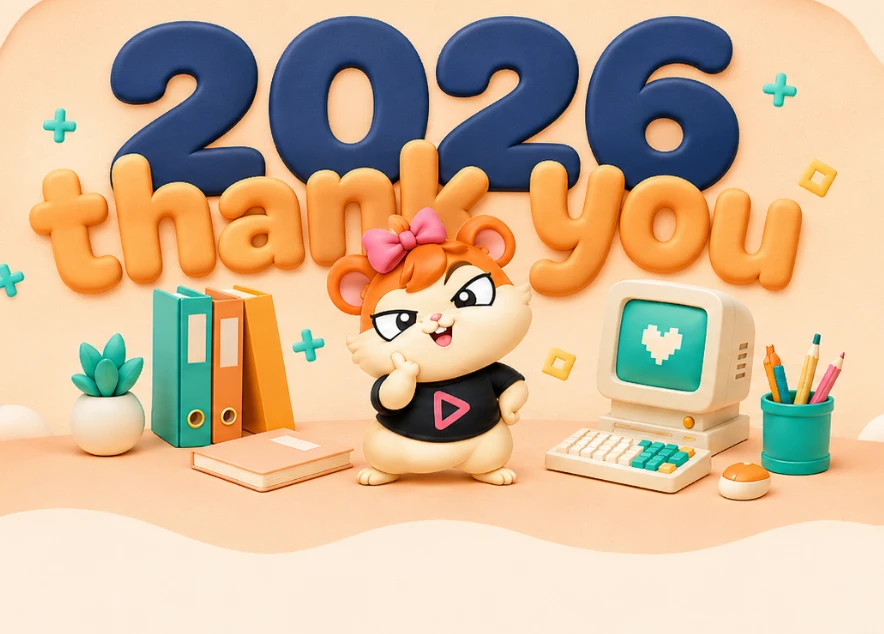
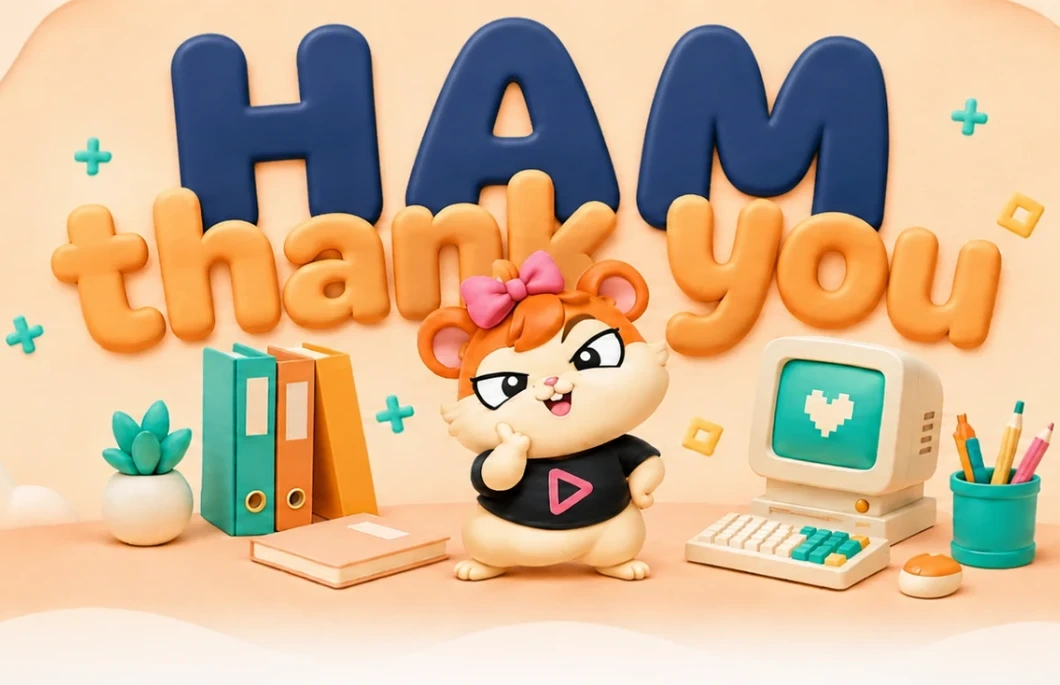
Swap the Thank You hero to the HAM artwork
Replaces "2026 thank you" with the new "HAM thank you" scene, which
matches the HamsterHub name and is not pinned to a year.

The new art came as a single wide file (2000x685). The page serves two
crops through <picture>, so swapping only the wide one would have left
phones on the old "2026" art — a different wordmark depending on screen
size. Cropped the mobile version from the same source instead: full
height, trimmed to 1060x685 so the whole wordmark and the full desk
scene survive, from the plant through to the pencil cup.

The intrinsic width/height on both the <source> and the <img> now match
the real files. Stale values here cause layout shift, and were behind the
stretched-banner bug earlier in this project. The alt text said "2026
thank you", which would have described a wordmark that no longer exists.

Verified in Chromium: both 1440 and 390 load their own file and both read
"HAM", natural dimensions match the markup, no horizontal overflow, and
the hero still fades into the section below with no seam. Gallery
untouched and re-checked — drag 200px moves 200px, one blade and six
sparks, nothing stranded.

Claude-Session: https://claude.ai/code/session_013kTtF1icznq9uztL5hnTJk

diff --git a/thankyou.html b/thankyou.html
@@ -24,9 +24,9 @@
       <picture>
         <!-- Same scene, two crops: wide for desktop, tighter for phones so the
              wordmark and mascot stay large. Both run full-bleed. -->
-        <source media="(min-width: 769px)" srcset="assets/thankyou-hero-wide.webp" width="1640" height="560">
-        <img class="hero__art" src="assets/thankyou-hero-mobile.webp" width="884" height="634"
-             alt="2026 thank you — มาสคอตแฮมสเตอร์ของ HamsterHub ยืนอยู่กลางโต๊ะทำงาน">
+        <source media="(min-width: 769px)" srcset="assets/thankyou-hero-wide.webp" width="2000" height="685">
+        <img class="hero__art" src="assets/thankyou-hero-mobile.webp" width="1060" height="685"
+             alt="HAM thank you — มาสคอตแฮมสเตอร์ของ HamsterHub ยืนอยู่กลางโต๊ะทำงาน">
       </picture>
     </div>
 
